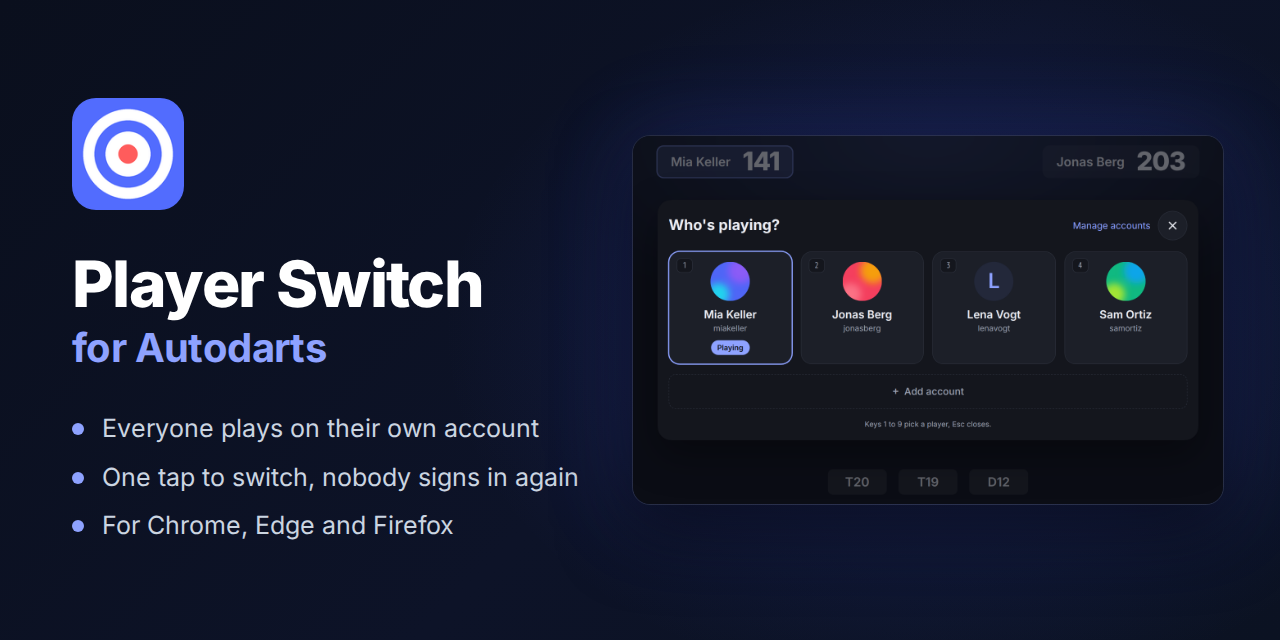
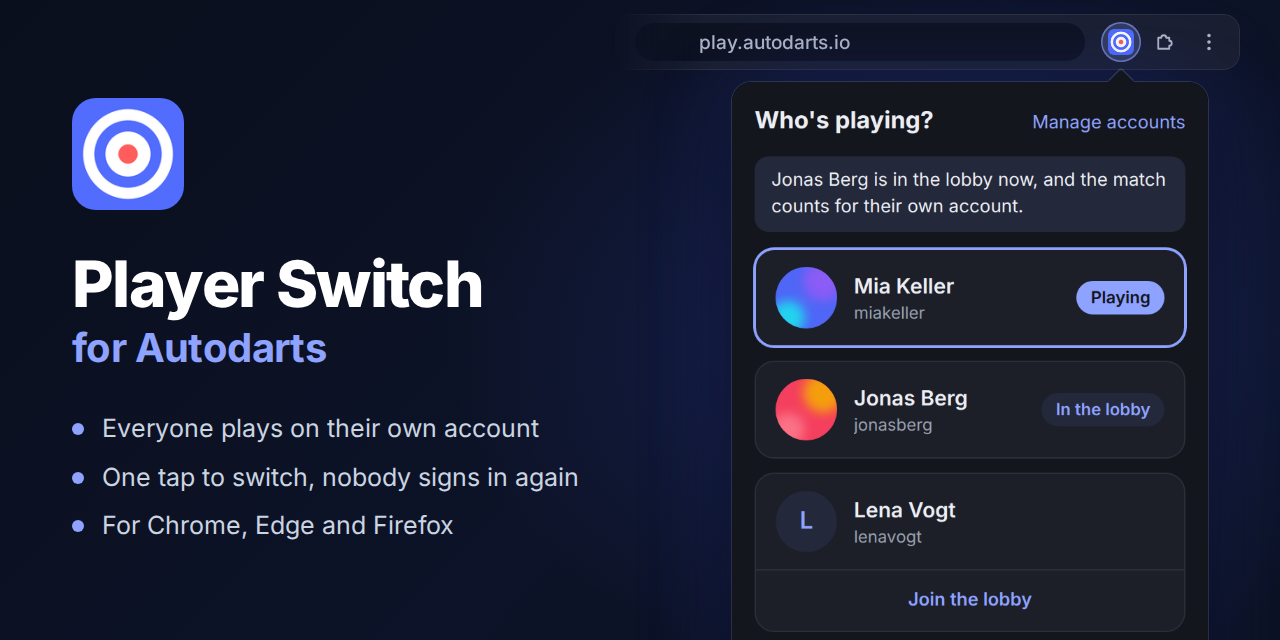
docs: the social preview shows the popup of the toolbar, large
The right side of the social preview showed the switcher overlay on a
board display, which shrinks to a few pixels per tile at the size of a
link card. It now shows the real popup of the extension, the
lobby.dark.png of scripts/screenshots.sh, at 1.4 times its size below a
drawn piece of a browser toolbar, hanging from the extension's pressed
icon with a notch, and cut off by the bottom of the preview after the
three tiles (Playing, In the lobby, Join the lobby). The left side stays
as it was.

The page crops the frame of the stage away with the margins of the
image, so the box is the popup whatever its size, and the screenshot
bot keeps the preview true when the popup changes. The development
guide, the diagram of how the pictures are made and the comments of
scripts/screenshots.sh say that the preview shows the popup.

Fixes #177

diff --git a/.github/social-preview.html b/.github/social-preview.html
@@ -4,9 +4,10 @@
 <meta charset="utf-8">
 <title>Player Switch for Autodarts: social preview</title>
 <!-- scripts/social-preview.sh renders this page into the 1280×640 image that GitHub
-     shows for links to the repository. The right side is the real switcher on a board
-     display, docs/images/switcher.dark.png, which scripts/screenshots.sh renders from the
-     extension's own page before it renders this one. -->
+     shows for links to the repository. The right side is the real popup of the extension,
+     docs/images/lobby.dark.png, which scripts/screenshots.sh renders from the extension's
+     own page before it renders this one: large, below a drawn piece of a browser's
+     toolbar with the icon that opens it. -->
 <link rel="preconnect" href="https://fonts.googleapis.com">
 <link rel="stylesheet" href="https://fonts.googleapis.com/css2?family=Inter:wght@400;500;600;700;800&display=block">
 <style>
@@ -29,14 +30,49 @@ h2 { margin-top: 6px; font-size: 40px; font-weight: 700; color: var(--accent); l
 ul { margin-top: 40px; list-style: none; display: grid; gap: 16px; }
 li { font-size: 25px; line-height: 1.3; color: #cbd5e1; padding-left: 30px; position: relative; }
 li::before { content: ""; position: absolute; left: 0; top: 11px; width: 12px; height: 12px; border-radius: 50%; background: var(--accent); }
-/* The switcher over the scoreboard of a board display: the whole picture, 1440×900. */
-.display {
-  position: absolute; right: 56px; top: 50%; transform: translateY(-50%); width: 592px; height: 370px;
-  border-radius: 18px; overflow: hidden;
-  border: 1px solid rgba(255, 255, 255, 0.10);
-  box-shadow: 0 28px 70px rgba(0, 0, 0, 0.55), 0 0 90px rgba(67, 89, 240, 0.22);
+
+/* The right end of a browser's toolbar, which fades in from the left: the address, the
+   extension's icon, pressed as while its popup is open, the menu of the extensions and
+   the browser's menu. */
+.toolbar {
+  position: absolute; left: 612px; right: 40px; top: 14px; height: 56px;
+  display: flex; align-items: center; gap: 4px; padding: 0 10px 0 22px;
+  border-radius: 16px; background: #1a1f30;
+  border: 1px solid rgba(255, 255, 255, 0.08);
+  -webkit-mask-image: linear-gradient(to right, transparent 0, #000 90px);
+  mask-image: linear-gradient(to right, transparent 0, #000 90px);
 }
-.display img { display: block; width: 100%; height: 100%; }
+.address {
+  flex: 1; height: 38px; margin-right: 12px; display: flex; align-items: center;
+  padding-left: 64px; border-radius: 19px; background: #0e1220;
+  font-size: 19px; font-weight: 500; color: #aeb6c8;
+}
+.button { width: 40px; height: 40px; flex: none; display: grid; place-items: center; border-radius: 50%; }
+.button svg { width: 24px; height: 24px; fill: none; stroke: #aeb6c8; stroke-width: 1.8; stroke-linecap: round; stroke-linejoin: round; }
+.button.pressed { background: rgba(142, 162, 255, 0.22); box-shadow: inset 0 0 0 1.5px rgba(142, 162, 255, 0.6); }
+.button.pressed img { width: 26px; height: 26px; display: block; border-radius: 6px; }
+
+/* The popup hangs from the icon, and the notch points at it. The right edge keeps its
+   place, so the notch stays below the icon however wide the popup becomes. */
+.popup { position: absolute; right: 72px; top: 82px; }
+.notch {
+  position: absolute; right: 78px; top: -9px; width: 18px; height: 18px; transform: rotate(45deg);
+  /* The background of the popup in its dark theme, extension/popup.css. */
+  background: #14161d; border-radius: 3px 0 0 0;
+  box-shadow: -1.5px -1.5px 0 rgba(255, 255, 255, 0.12);
+}
+/* The picture at 0.7 of its size: 1.4 times the popup, whose pixels it has twice. The
+   margins take away the frame around the popup, 28 pixels of test/harness/stage.css at
+   that scale of 2, so the box is the popup and keeps the popup's size. The bottom of the
+   preview cuts off what no longer reads at the size of a link card. */
+.window {
+  zoom: 0.7; width: fit-content; overflow: hidden; border-radius: 28px;
+  box-shadow:
+    0 0 0 1.5px rgba(255, 255, 255, 0.12),
+    0 40px 100px rgba(0, 0, 0, 0.6),
+    0 0 130px rgba(67, 89, 240, 0.25);
+}
+.window img { display: block; margin: -56px; }
 </style>
 </head>
 <body>
@@ -50,6 +86,15 @@ li::before { content: ""; position: absolute; left: 0; top: 11px; width: 12px; h
     <li>For Chrome, Edge and Firefox</li>
   </ul>
 </div>
-<div class="display"><img src="../docs/images/switcher.dark.png" alt=""></div>
+<div class="toolbar">
+  <div class="address">play.autodarts.io</div>
+  <div class="button pressed"><img src="../extension/icons/icon-48.png" alt=""></div>
+  <div class="button"><svg viewBox="0 0 24 24"><path d="M5.25 7.75h3a2.5 2.5 0 1 1 5 0h3v3a2.5 2.5 0 1 1 0 5v3h-11Z"/></svg></div>
+  <div class="button"><svg viewBox="0 0 24 24"><circle cx="12" cy="5.5" r="0.9"/><circle cx="12" cy="12" r="0.9"/><circle cx="12" cy="18.5" r="0.9"/></svg></div>
+</div>
+<div class="popup">
+  <div class="window"><img src="../docs/images/lobby.dark.png" alt=""></div>
+  <div class="notch"></div>
+</div>
 </body>
 </html>

diff --git a/docs/development.md b/docs/development.md
@@ -172,14 +172,14 @@ bash scripts/screenshots.sh
 
 It needs Docker and Node. It builds `extension/lib/` from `src/`, then the headless Chromium of the pinned Playwright image opens `test/harness/stage.html`, which shows the real `popup.html` or `switcher.html` in a frame. `test/harness/chrome-stub.js` stands in for Chrome there: it reads the texts of `extension/_locales/` and answers the requests of `pages/players.ts` as the service worker does, with four made-up accounts and generated pictures, no real people. `test/harness/capture.py` takes each picture at a fixed size, scale, color scheme and language, with the Inter font and no network, so two runs give the same pixels:
 
-- `docs/images/switch.gif`: a tap that switches players, for the README, with `switch.mp4` and its first frame `switch.webp` beside it, which the home page shows in its place as a video that the reader can pause and that stays still for one who asks for less motion; `manage.png`: **Manage accounts**; `switcher.png`: the switcher over a match on a board display. Each also `.dark`, for a dark theme, and in German, `.de` and `.de.dark`.
+- `docs/images/switch.gif`: a tap that switches players, for the README, with `switch.mp4` and its first frame `switch.webp` beside it, which the home page shows in its place as a video that the reader can pause and that stays still for one who asks for less motion; `manage.png`: **Manage accounts**; `lobby.png`: the popup after a parked player joined the lobby; `switcher.png`: the switcher over a match on a board display. Each also `.dark`, for a dark theme, and in German, `.de` and `.de.dark`.
 - `docs/images/load-unpacked.png`: the top of `chrome://extensions`, the one picture of a page of the browser itself, from the whole Chromium of the image, with Developer mode on and what [the install from a release](index.md#install-from-a-release) asks for marked, also `.dark` and in German;
 - `store/images/`: the screenshots and the promo tiles of the store, in every language of `extension/_locales/` (`.en`, `.de`, `.nl`, `.fr` and `.es`), with the text around the extension from `store/pictures.<code>.json`; [the release guide](releases.md#the-images-of-the-store) says where each goes. A text that doesn't fit its picture stops the script with the address of the picture, so a translation never gets cut off.
-- `.github/social-preview.png`: the picture that GitHub, chats and social networks show for a link to the repository, the dark switcher beside the name of the extension and three lines about it. `scripts/social-preview.sh` renders it last from `.github/social-preview.html`, so it shows the `switcher.dark.png` of the same run. GitHub takes it only from an upload under **Settings → General → Social preview**, so upload it there again after it changes.
+- `.github/social-preview.png`: the picture that GitHub, chats and social networks show for a link to the repository, the name of the extension and three lines about it beside its dark popup, large and below the corner of a browser's toolbar with the icon that opens it. `scripts/social-preview.sh` renders it last from `.github/social-preview.html`, so it shows the `lobby.dark.png` of the same run, cut off where it no longer reads at the size of a link card. GitHub takes it only from an upload under **Settings → General → Social preview**, so upload it there again after it changes.
 
 <picture>
   <source media="(prefers-color-scheme: dark)" srcset="images/diagrams/how-the-pictures-are-made.dark.svg">
-  <img src="images/diagrams/how-the-pictures-are-made.svg" alt="How the pictures are made: scripts/screenshots.sh builds the extension and starts the pinned Playwright image with the repository read-only. Inside, run.sh installs the Inter font and the tools, and capture.py opens the stage in Chromium. The stage shows the real popup or switcher of the extension in a frame, with a stand-in for Chrome and made-up accounts; every file comes from the repository and no request leaves the browser. capture.py takes each picture at a fixed size, scale, scheme and language and writes the GIF, and the pictures leave the container as an archive, into docs/images, in English and German, and store/images, in every language of the extension. Last, scripts/social-preview.sh renders .github/social-preview.png, the picture of links to the repository, which shows the dark switcher beside the name of the extension. After a change of main, every release and every week, the screenshot bot runs the script and opens a pull request with the pictures whose pixels changed.">
+  <img src="images/diagrams/how-the-pictures-are-made.svg" alt="How the pictures are made: scripts/screenshots.sh builds the extension and starts the pinned Playwright image with the repository read-only. Inside, run.sh installs the Inter font and the tools, and capture.py opens the stage in Chromium. The stage shows the real popup or switcher of the extension in a frame, with a stand-in for Chrome and made-up accounts; every file comes from the repository and no request leaves the browser. capture.py takes each picture at a fixed size, scale, scheme and language and writes the GIF, and the pictures leave the container as an archive, into docs/images, in English and German, and store/images, in every language of the extension. Last, scripts/social-preview.sh renders .github/social-preview.png, the picture of links to the repository, which shows the dark popup, as it opens from its icon in the toolbar, beside the name of the extension. After a change of main, every release and every week, the screenshot bot runs the script and opens a pull request with the pictures whose pixels changed.">
 </picture>
 
 After a change of `main` that touches a file of `.github/screenshots-paths.txt`, such as the popup, its texts, the texts on the pictures of the store or the harness, after every release and every week, the screenshot bot runs the script and opens a pull request with the pictures whose pixels changed. To see what a change of yours changes, run the script and then `python3 .github/blueprint.py screenshots restore`, which gives every picture that looks the same its committed file back.
